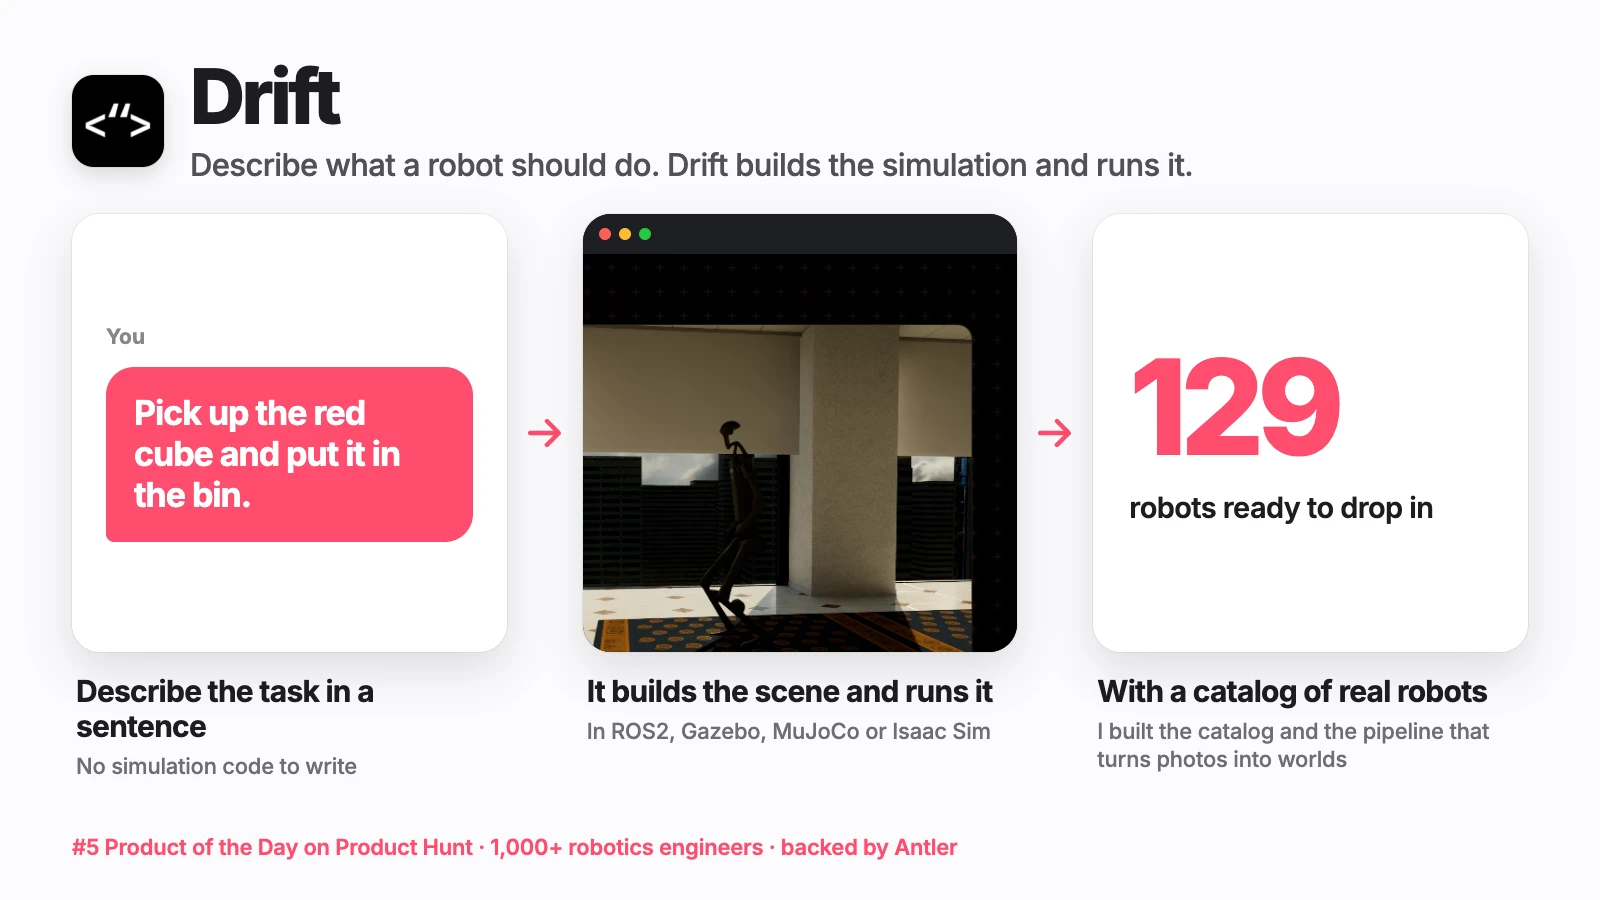
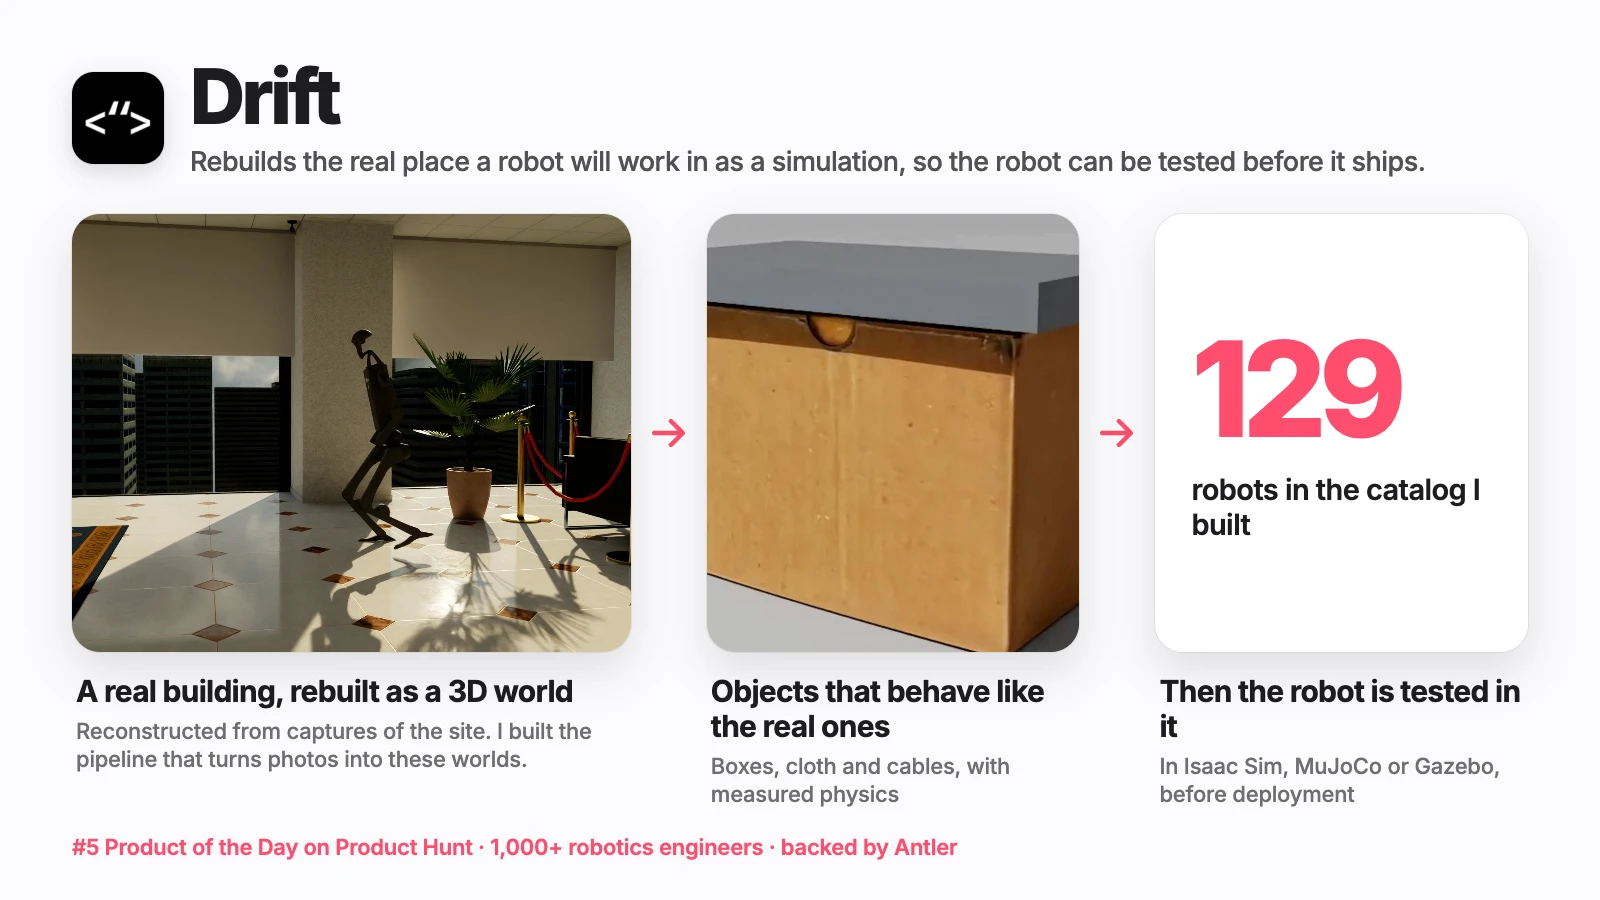
Use real product footage on the Twinly, Drift, FUSE, QuickCitePro and GlassBox boards
Five covers leaned on drawings with example lines that were made up.
They now use frames from the products themselves:

- Twinly: the product trailer. The prompt ("Handle my morning"), the
  work it did (replies drafted, a calendar conflict fixed, a refund
  chased) and the approval card it shows before sending.
- Drift: the simulation footage on its site. A reconstructed building
  with a humanoid walking through it, and a physics-accurate box.
- FUSE: the demo video. A receipt and a note of who ate what, the fold,
  and the four-person split that comes out.
- QuickCitePro: the demo video. A selected reference, then the cited
  paper open with its summary panel.
- GlassBox: the demo video, cropped to the dashboard: integrity score,
  AI-voice alerts and the script-reading flag. No faces.

Eyesight's spoken line is now one the app really says ("Stop. Stairs
down."), taken from its source. Kinetix quotes the prompt visible in
its own screenshot.

diff --git a/sources/data/explainers.js b/sources/data/explainers.js
@@ -52,20 +52,20 @@ export const explainers = {
         line: 'An AI agent that operates your computer for you, the way you would.',
         proof: 'Z Fellows, September 2026 cohort · 1,000+ active users on macOS, Windows and iOS',
         panels: [
-            { draw: 'say', who: 'You', text: 'Reply to Sam, move Friday\'s meeting and call the dentist.', caption: 'Tell it what you need done', sub: 'In plain words' },
-            { draw: 'apps', items: [ 'Email', 'Calendar', 'Browser', 'Files', 'Phone call' ], caption: 'It does the work in your real apps', sub: 'Through each app\'s own controls. It clicks on pixels only as a last resort.' },
-            { draw: 'stat', value: '1,000+', label: 'people use it today', caption: 'And it sounds like you', sub: 'It learns how you write, and calls in a clone of your voice' },
+            { img: `${SRC}/twinly-ask.jpg`, caption: 'Tell it what you want handled', sub: 'One line, in plain words' },
+            { img: `${SRC}/twinly-work.jpg`, span: 1.4, position: '72% center', caption: 'It does the work in your real apps', sub: 'Replies drafted, a calendar conflict fixed, a refund chased' },
+            { img: `${SRC}/twinly-approve.jpg`, span: 1.2, position: 'center top', caption: 'And asks before anything goes out', sub: 'You choose how much it checks with you' },
         ],
     },
 
     drift: {
         accent: '#ff4d6d',
-        line: 'Describe what a robot should do. Drift builds the simulation and runs it.',
+        line: 'Rebuilds the real place a robot will work in as a simulation, so the robot can be tested before it ships.',
         proof: '#5 Product of the Day on Product Hunt · 1,000+ robotics engineers · backed by Antler',
         panels: [
-            { draw: 'say', who: 'You', text: 'Pick up the red cube and put it in the bin.', caption: 'Describe the task in a sentence', sub: 'No simulation code to write' },
-            { draw: 'window', img: 'scripts/shots/raw/drift.png', position: '88% 40%', zoom: 1.9, caption: 'It builds the scene and runs it', sub: 'In ROS2, Gazebo, MuJoCo or Isaac Sim' },
-            { draw: 'stat', value: '129', label: 'robots ready to drop in', caption: 'With a catalog of real robots', sub: 'I built the catalog and the pipeline that turns photos into worlds' },
+            { img: `${SRC}/drift-world.jpg`, span: 1.5, position: '70% center', caption: 'A real building, rebuilt as a 3D world', sub: 'Reconstructed from captures of the site. I built the pipeline that turns photos into these worlds.' },
+            { img: `${SRC}/drift-asset.jpg`, caption: 'Objects that behave like the real ones', sub: 'Boxes, cloth and cables, with measured physics' },
+            { draw: 'stat', value: '129', label: 'robots in the catalog I built', caption: 'Then the robot is tested in it', sub: 'In Isaac Sim, MuJoCo or Gazebo, before deployment' },
         ],
     },
 
@@ -96,7 +96,7 @@ export const explainers = {
         proof: 'I was 1 of 3 high schoolers accepted to the hackathon, out of 1,500+ applicants',
         panels: [
             { img: 'scripts/shots/raw/yt_-k4Ks9YATTI.jpg', position: '55% center', caption: 'A webcam watches you exercise', sub: 'It reads your pose and measures your joint angles' },
-            { draw: 'say', who: 'It says', spoken: true, text: 'Arms straight. Keep your body aligned.', caption: 'It tells you what to fix, out loud', sub: 'While you are still mid-rep' },
+            { draw: 'say', who: 'It says', spoken: true, text: 'Get into starting position: arms straight, body aligned.', caption: 'It tells you what to fix, out loud', sub: 'While you are still mid-rep' },
             { draw: 'apps', items: [ 'Reps counted', 'Holds timed', 'Form checked each rep' ], caption: 'And keeps count for you', sub: 'Feedback also shows in a Meta Quest headset' },
         ],
     },
@@ -106,9 +106,9 @@ export const explainers = {
         line: 'Put one thing on each half of a foldable iPhone, fold it shut, and get the one result that needs both.',
         proof: 'Native Swift app with 12 kinds of result',
         panels: [
-            { draw: 'pair', left: 'A job posting', right: 'Your résumé', caption: 'Put one thing on each screen', sub: 'A web page, a note, a photo, a PDF, your calendar' },
-            { img: 'scripts/shots/raw/yt_h8jK9cSw0xU.jpg', fit: 'contain', background: '#000000', caption: 'Fold the phone shut', sub: 'The fold is the command. There is no menu.' },
-            { draw: 'card', title: 'Cover email', rows: [ 62, 88, 74, 81, 40 ], caption: 'Get the result that needs both', sub: 'Here, a cover email that quotes the posting and the résumé' },
+            { img: `${SRC}/fuse-two.jpg`, fit: 'contain', background: '#ffffff', span: 1.5, caption: 'A receipt on one half, who ate what on the other', sub: 'Any two things: pages, notes, photos, PDFs, your calendar' },
+            { img: `${SRC}/fuse-fold.jpg`, fit: 'contain', background: '#ffffff', caption: 'Fold the phone shut', sub: 'The fold is the command. It works out how the two relate.' },
+            { img: `${SRC}/fuse-result.jpg`, fit: 'contain', background: '#ffffff', caption: 'One answer that needed both', sub: 'Here: what each of four people owes, to the cent' },
         ],
     },
 
@@ -118,7 +118,7 @@ export const explainers = {
         proof: 'LiDAR and on-device CoreML · TestFlight beta',
         panels: [
             { draw: 'icon', img: 'static/projects/images/eyesight-1.webp', caption: 'Point an iPhone ahead', sub: 'Its LiDAR measures the distance to what is in view' },
-            { draw: 'say', who: 'It says', spoken: true, text: 'Obstacle ahead. Door on your left.', caption: 'It warns and describes, out loud', sub: 'Obstacles as you move, then the surroundings' },
+            { draw: 'say', who: 'It says', spoken: true, text: 'Stop. Stairs down.', caption: 'It warns you, out loud', sub: 'Stairs, drop-offs and obstacles as you move' },
             { draw: 'stat', value: '0 bytes', label: 'about where you are leave the phone', caption: 'Everything runs on the phone', sub: 'It works with no signal' },
         ],
     },
@@ -135,11 +135,11 @@ export const explainers = {
 
     quickcitepro: {
         accent: '#f08c00',
-        line: 'Triple-click a citation in any paper and the source PDF opens.',
+        line: 'Select a citation in any paper and the paper it points to opens, with a summary beside it.',
         proof: 'Rated 5.0 on the Chrome Web Store · used by professors and lab teammates',
         panels: [
-            { draw: 'cite', caption: 'Triple-click a reference', sub: 'In any paper you are reading' },
-            { draw: 'sheets', images: [ `${ART}/arxiv-p8.png`, `${ART}/arxiv-p1.png` ], caption: 'The paper it points to opens', sub: 'No copying the title, no fixing the DOI, no dead links' },
+            { img: `${SRC}/qcp-select.jpg`, position: 'left center', caption: 'Select a reference', sub: 'Triple-click it on a web page, or right-click it in a PDF' },
+            { img: `${SRC}/qcp-open.jpg`, span: 1.5, position: 'left top', caption: 'The cited paper opens, already summarised', sub: 'What is new, the method and the key findings' },
             { draw: 'stat', value: '3 clicks', label: 'from a reference to the paper', caption: 'Built because I needed it', sub: 'During the CMU research work' },
         ],
     },
@@ -151,7 +151,7 @@ export const explainers = {
         panels: [
             { draw: 'window', img: `${ART}/veritas-1.png`, position: 'center top', caption: 'It sits on top of the video call', sub: 'Zoom, Teams or Google Meet' },
             { draw: 'apps', items: [ 'Gaze shifts and blink rate', 'Odd pauses, flat pitch', 'Answers that read like a script' ], caption: 'It watches, listens and reads', sub: 'Face tracking, audio analysis and a small language model' },
-            { draw: 'say', who: 'Flag', text: 'This answer was likely read from an AI tool.', caption: 'And flags the answer', sub: 'Script reading, and tools like ChatGPT or Cluely' },
+            { img: `${SRC}/glassbox-flags.jpg`, fit: 'contain', background: '#0b1016', span: 0.72, caption: 'And flags it while the candidate talks', sub: 'Here: an AI voice and script reading, integrity score 36' },
         ],
     },
 
